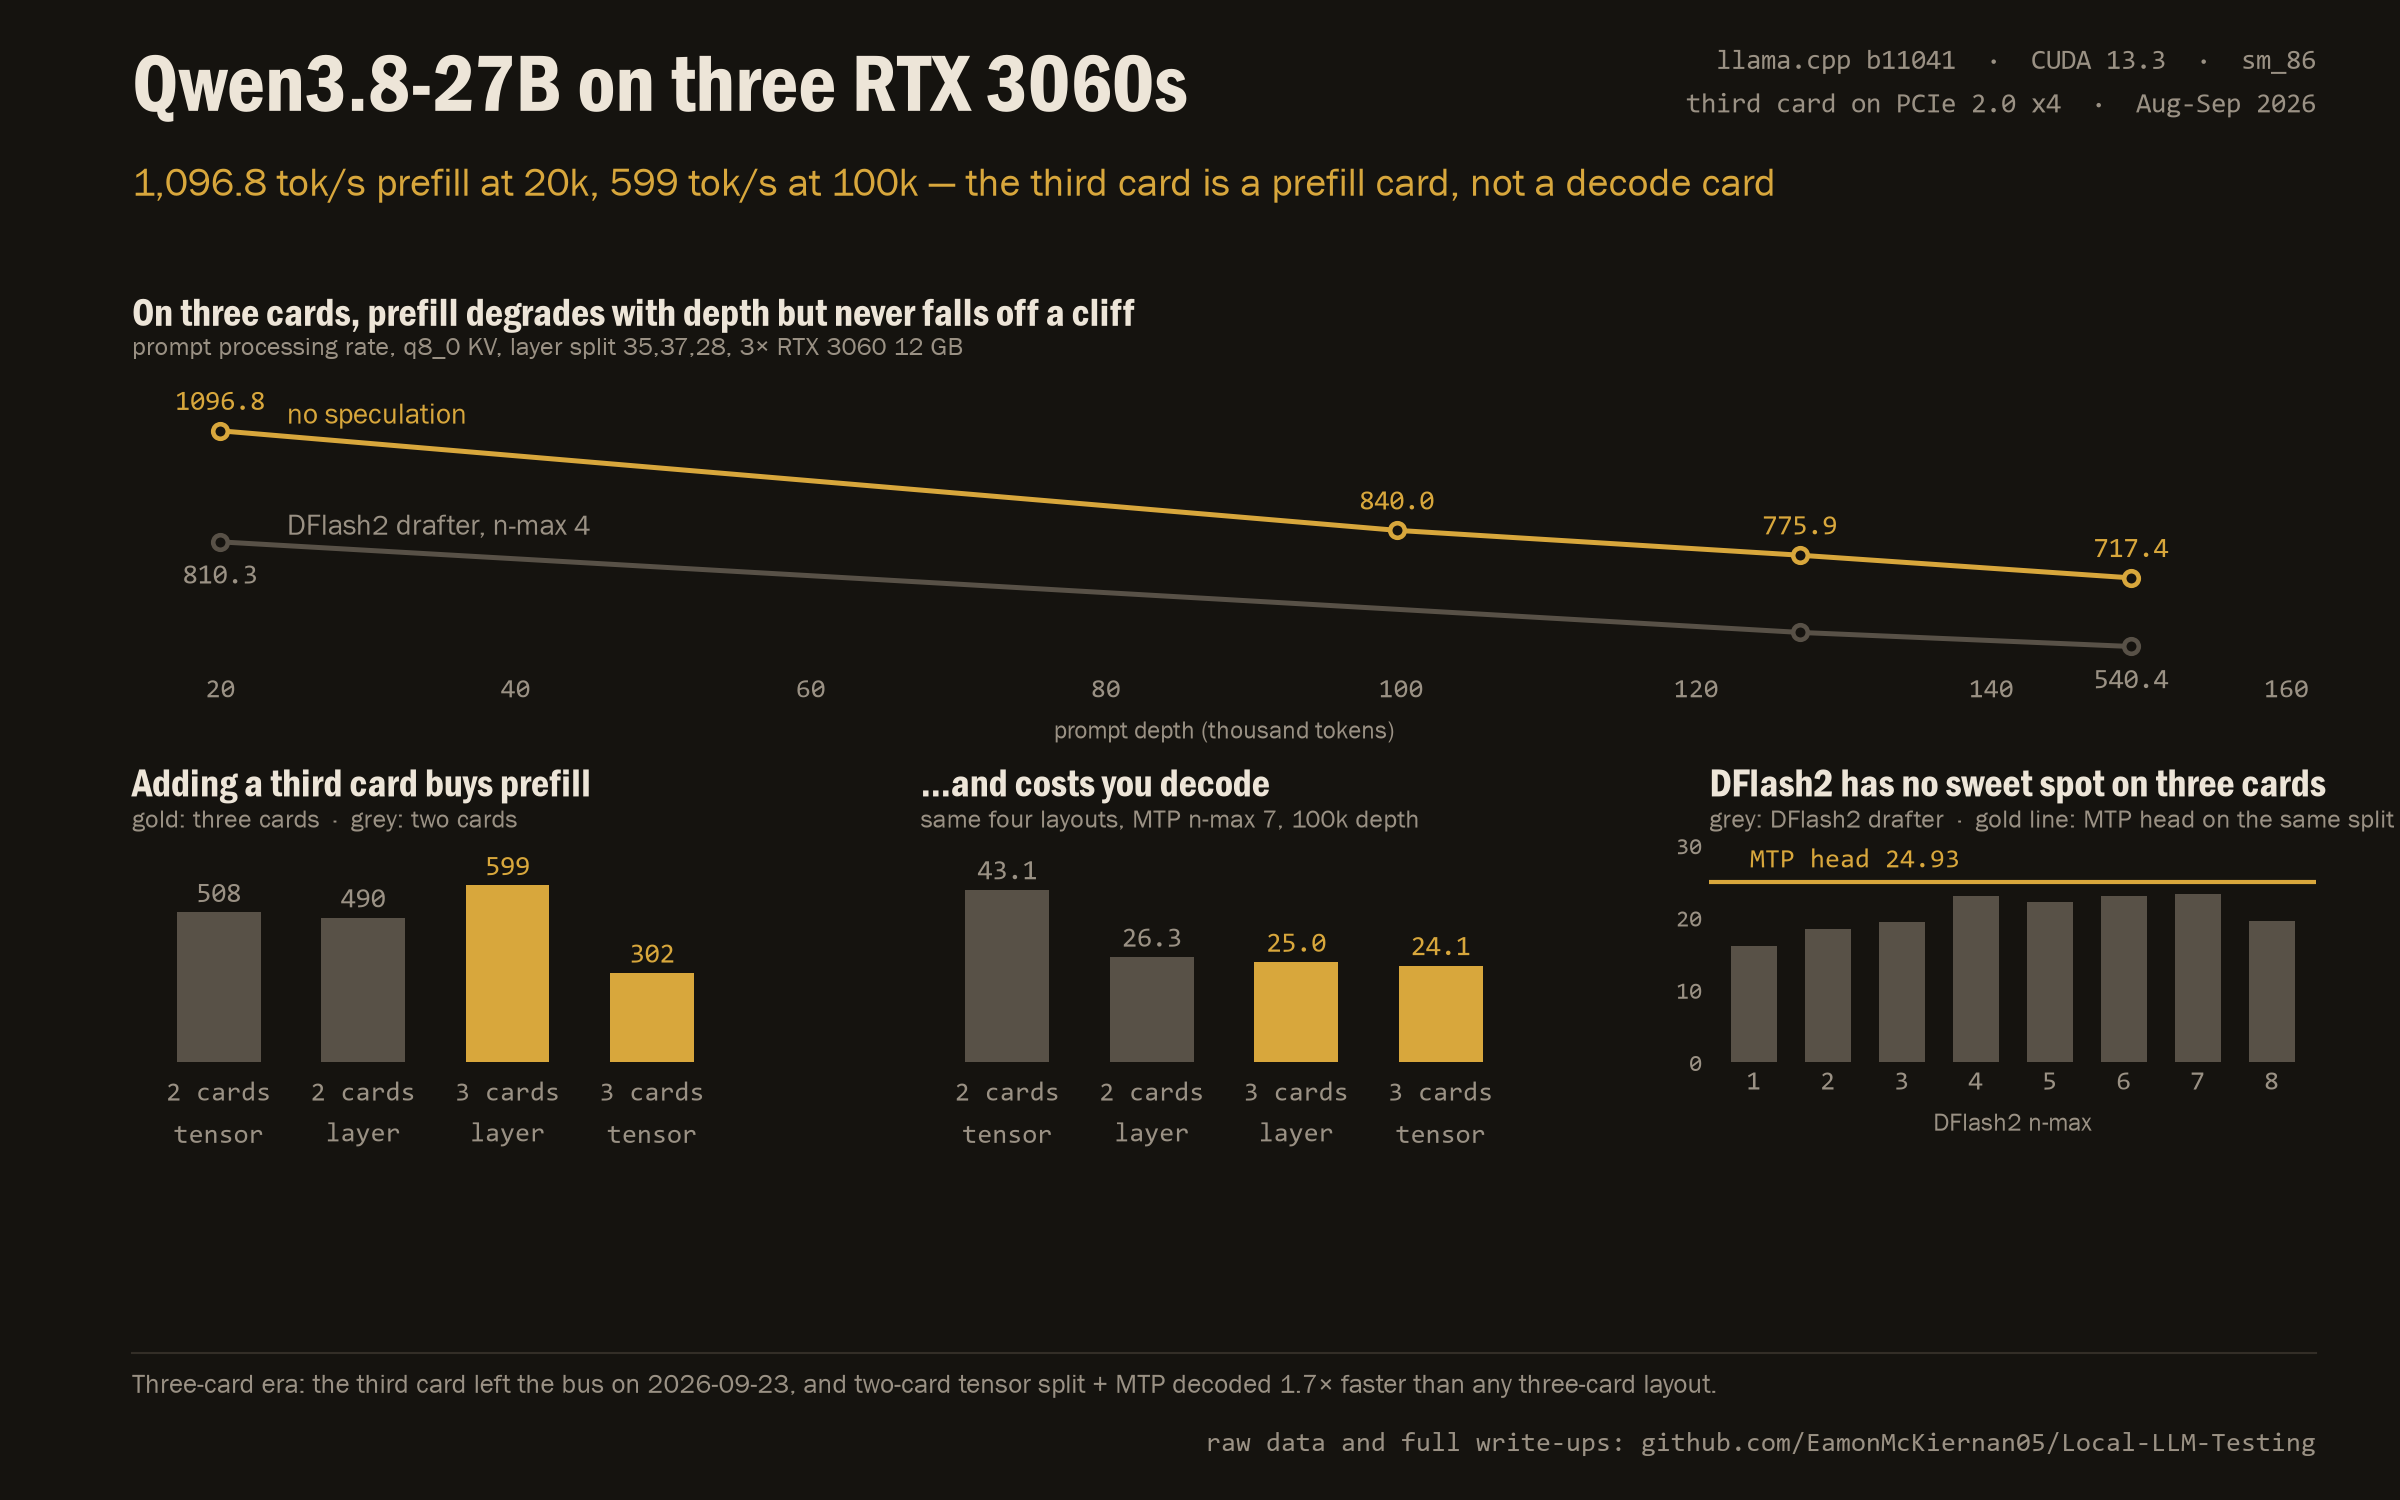
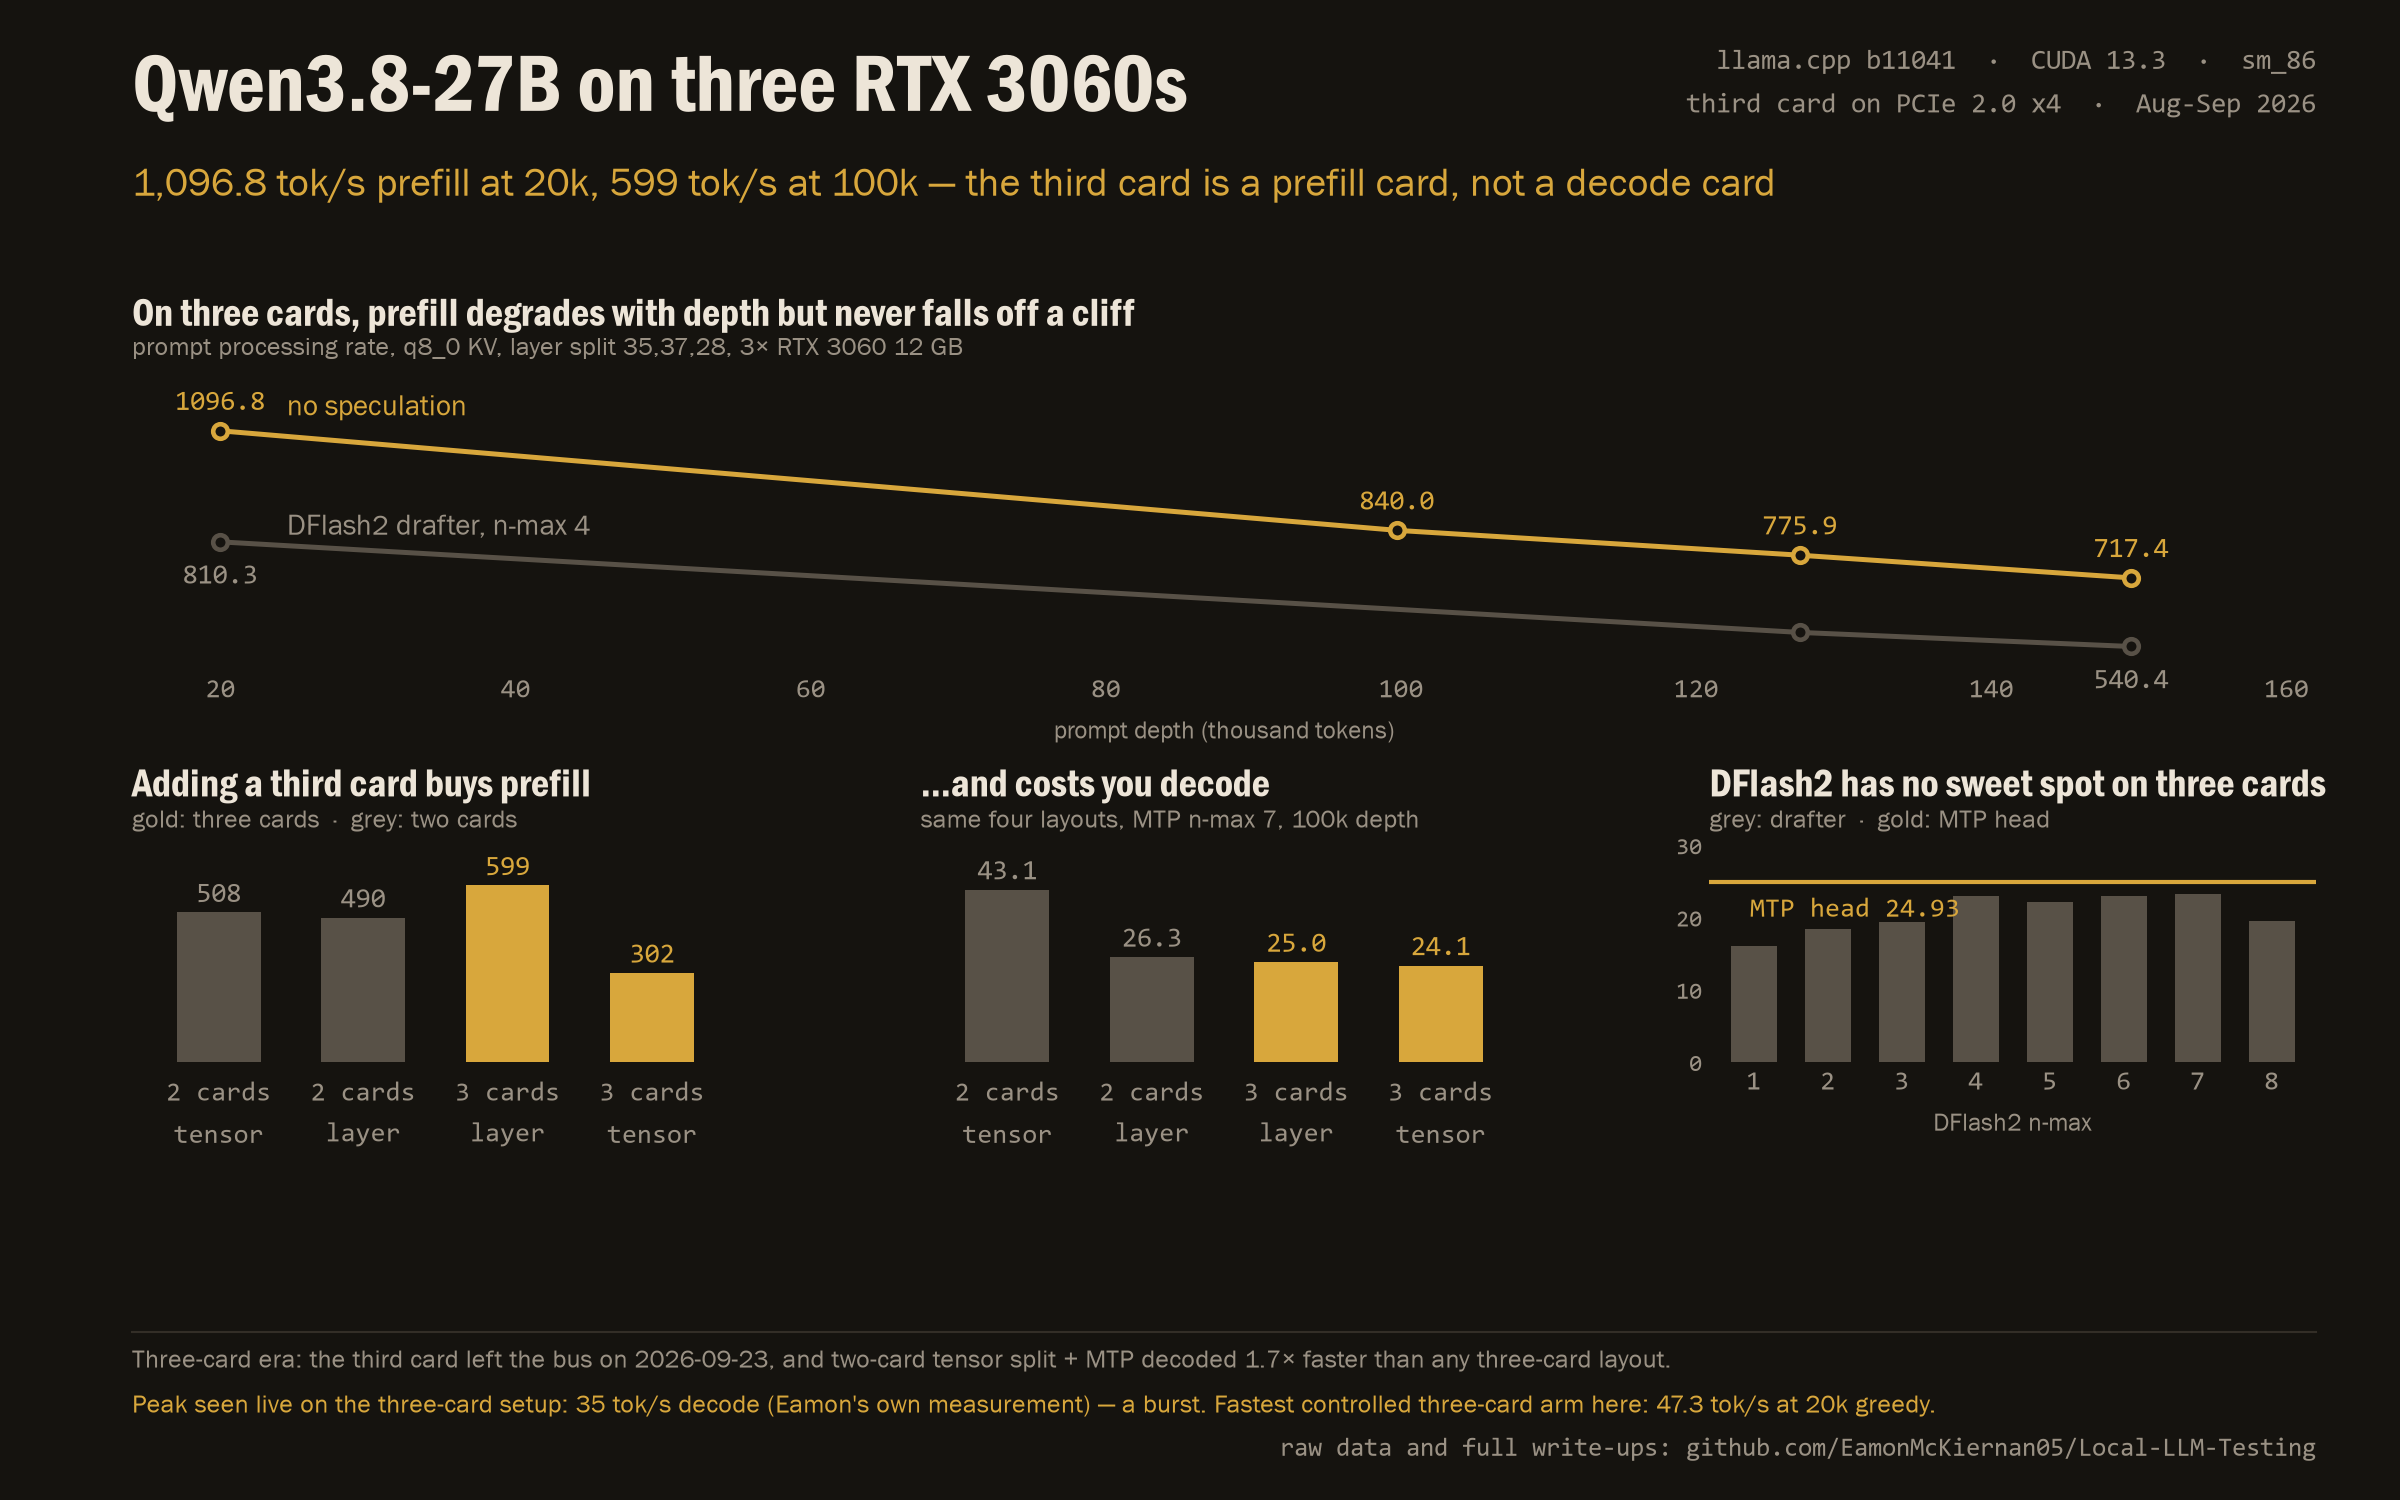
Record the live peak figures, with their source on every row
Adds data/csv/live-peak-observations.csv: 81 tok/s peak decode on the
two-card config (measured live by Eamon on a basic pong coding task),
35 tok/s on the three-card setup, and the 41.77 tok/s three-second
window captured from the production request against 27.73 sustained.

These are bursts, not rates, and they are labelled as such everywhere:
kept out of the sweep tables, called out in both chart footers, and
sourced per row (captured vs reported).

Changed region(s): [[0.0625, 0.8893, 0.9688, 0.9813], [0.7188, 0.5213, 1.0, 0.6133], [0.125, 0.2453, 0.1875, 0.3067]]

diff --git a/qwen3.8-27b-llama-cpp/scripts/make_chart_3card.py b/qwen3.8-27b-llama-cpp/scripts/make_chart_3card.py
@@ -126,7 +126,7 @@ for x, y in zip(none_x, none_y):
 for x, y in [(df_x[0], df_y[0]), (df_x[-1], df_y[-1])]:
     ax1.annotate(f"{y:.1f}", (x, y), xytext=(0, -20), textcoords="offset points",
                  ha="center", color=INK_DIM, fontsize=13.5, fontfamily=MONO)
-ax1.annotate("no speculation", xy=(24.5, 1096.8), xytext=(0, 7), textcoords="offset points",
+ax1.annotate("no speculation", xy=(24.5, 1096.8), xytext=(0, 11), textcoords="offset points",
              color=ACCENT, fontsize=14, fontfamily=SANS, ha="left", va="center")
 ax1.annotate("DFlash2 drafter, n-max 4", xy=(24.5, 810.3), xytext=(0, 7), textcoords="offset points",
              color=INK_DIM, fontsize=14, fontfamily=SANS, ha="left", va="center")
@@ -149,11 +149,11 @@ bars(ax3, gd, 56, fmt="{:.1f}")
 # ---------------------------------------- 4. DFlash2 on three cards --------
 ax4 = fig.add_subplot(gs[1, 2])
 dress(ax4, "DFlash2 has no sweet spot on three cards",
-      "grey: DFlash2 drafter  ·  gold line: MTP head on the same split")
+      "grey: drafter  ·  gold: MTP head")
 ax4.bar(df_nmax, df_gen, width=0.62, color=QUIET, zorder=3)
 ax4.axhline(mtp_ref, color=ACCENT, lw=2, zorder=4)
-ax4.annotate(f"MTP head {mtp_ref:.2f}", xy=(0.95, mtp_ref), xytext=(0, 7),
-             textcoords="offset points", ha="left", color=ACCENT,
+ax4.annotate(f"MTP head {mtp_ref:.2f}", xy=(0.95, mtp_ref), xytext=(0, -7),
+             textcoords="offset points", ha="left", va="top", color=ACCENT,
              fontsize=13, fontfamily=MONO)
 ax4.set_xticks(df_nmax)
 ax4.set_xticklabels([str(n) for n in df_nmax])
@@ -175,12 +175,15 @@ fig.text(0.965, 0.939, "third card on PCIe 2.0 x4  ·  Aug-Sep 2026", color=INK_
          fontsize=13.5, fontfamily=MONO, ha="right", va="top")
 
 # ------------------------------------------------------------------- footer --
-fig.add_artist(plt.Line2D([0.055, 0.965], [0.098, 0.098], color=RULE, lw=1))
-fig.text(0.055, 0.068, "Three-card era: the third card left the bus on 2026-09-23, "
-                       "and two-card tensor split + MTP decoded 1.7× faster than any three-card layout.",
-         color=INK_DIM, fontsize=13, fontfamily=SANS, va="bottom")
-fig.text(0.965, 0.028, "raw data and full write-ups: github.com/EamonMcKiernan05/Local-LLM-Testing",
-         color=INK_DIM, fontsize=13, fontfamily=MONO, ha="right", va="bottom")
+fig.add_artist(plt.Line2D([0.055, 0.965], [0.112, 0.112], color=RULE, lw=1))
+fig.text(0.055, 0.085, "Three-card era: the third card left the bus on 2026-09-23, and two-card tensor "
+                       "split + MTP decoded 1.7× faster than any three-card layout.",
+         color=INK_DIM, fontsize=12.5, fontfamily=SANS, va="bottom")
+fig.text(0.055, 0.055, "Peak seen live on the three-card setup: 35 tok/s decode (Eamon's own measurement) — a burst. "
+                       "Fastest controlled three-card arm here: 47.3 tok/s at 20k greedy.",
+         color=ACCENT, fontsize=12.5, fontfamily=SANS, va="bottom")
+fig.text(0.965, 0.025, "raw data and full write-ups: github.com/EamonMcKiernan05/Local-LLM-Testing",
+         color=INK_DIM, fontsize=12.5, fontfamily=MONO, ha="right", va="bottom")
 
 fig.savefig(OUT, facecolor=BG)
 print("wrote", OUT)

diff --git a/qwen3.8-27b-llama-cpp/scripts/make_chart.py b/qwen3.8-27b-llama-cpp/scripts/make_chart.py
@@ -180,12 +180,15 @@ fig.text(0.965, 0.939, "Q4_K_XL and IQ3_S quants  ·  Aug-Sep 2026", color=INK_D
          fontsize=13.5, fontfamily=MONO, ha="right", va="top")
 
 # ------------------------------------------------------------------- footer --
-fig.add_artist(plt.Line2D([0.055, 0.965], [0.098, 0.098], color=RULE, lw=1))
-fig.text(0.055, 0.068, "Every figure came off a real run on this one box: Xeon E5-2680 v4, "
+fig.add_artist(plt.Line2D([0.055, 0.965], [0.112, 0.112], color=RULE, lw=1))
+fig.text(0.055, 0.085, "Every figure came off a real run on this one box: Xeon E5-2680 v4, "
                        "31 GB RAM, 2× RTX 3060 12 GB, no NVLink.",
-         color=INK_DIM, fontsize=13, fontfamily=SANS, va="bottom")
-fig.text(0.965, 0.028, "raw data and full write-ups: github.com/EamonMcKiernan05/Local-LLM-Testing",
-         color=INK_DIM, fontsize=13, fontfamily=MONO, ha="right", va="bottom")
+         color=INK_DIM, fontsize=12.5, fontfamily=SANS, va="bottom")
+fig.text(0.055, 0.055, "Peak seen live on this configuration: 81 tok/s decode on a basic pong coding task at shallow context "
+                       "(Eamon's own measurement) — a burst, not a steady-state rate.",
+         color=ACCENT, fontsize=12.5, fontfamily=SANS, va="bottom")
+fig.text(0.965, 0.025, "raw data and full write-ups: github.com/EamonMcKiernan05/Local-LLM-Testing",
+         color=INK_DIM, fontsize=12.5, fontfamily=MONO, ha="right", va="bottom")
 
 fig.savefig(OUT, facecolor=BG)
 print("wrote", OUT)

diff --git a/qwen3.8-27b-llama-cpp/README.md b/qwen3.8-27b-llama-cpp/README.md
@@ -90,6 +90,20 @@ Two traps worth knowing before you copy any of it:
 1. **Do not pass a single sampler flag unless you pass them all.** llama.cpp reads unset sampler parameters from the GGUF's own metadata. This model's metadata says `top_k 20`, `min_p` off. Passing `--top-k 40` thinking you are restating the default costs 35% of generation speed.
 2. **`-ub 256` is the prefill sweet spot at every `-b`.** `-ub 128` costs about 4%; `-ub 512` and above cost 1.5-3% and add VRAM, and at 160k context `-ub 2048` kills the server during a long prompt.
 
+## Peaks observed live (not harness runs)
+
+Three figures in this project's history are **not** sweep measurements and are kept out of every table above. They are recorded in `data/csv/live-peak-observations.csv` with their source on each row.
+
+| date | config | workload | figure |
+|---|---|---|---|
+| 2026-09-23 | two cards, tensor split, MTP `n-max 7` | basic pong coding task, shallow context | **81 tok/s peak decode** — Eamon's own live measurement |
+| 2026-09-23 | same config | the production request below | **41.77 tok/s** in llama-server's 3-second window, against 27.73-27.80 sustained |
+| 2026-09-24 | three cards, layer split | not recorded | **35 tok/s peak decode** — reported by Eamon |
+
+Read them as bursts, not rates. The distinction matters: llama-server reports both a cumulative `tg` and a `tg_3s` three-second window, and the short window spikes well above the real rate — the second row is proof, at 1.5x its own sustained figure. The controlled two-card arms top out at 44.33 tok/s (20k depth, ungated `n-max 2`) and 43.10 (100k depth, `n-max 7`); a shallow-context coding task has far less KV cache to re-read per step, so a peak above those numbers is mechanically expected, not surprising.
+
+**Rule for using them:** quote a live peak only with its context and only as a peak. Never put one in the same column as a fixed-prompt harness run.
+
 ## What we still cannot answer
 
 Stated honestly, because someone will ask:

diff --git a/qwen3.8-27b-llama-cpp/PROVENANCE.md b/qwen3.8-27b-llama-cpp/PROVENANCE.md
@@ -43,6 +43,7 @@ Collected 2026-09-24. The rule for this repo is simple: **a number appears here 
 | `live-traffic-draft-acceptance-aug14-15.csv` | 28 | per-request journal lines from real fleet traffic |
 | `live-service-2026-09-23-prefill-progress.csv` | 10 | the production cold prefill, sample by sample |
 | `live-service-2026-09-23-decode-series.csv` | 21 | the production decode rate, sample by sample |
+| `live-peak-observations.csv` | 3 | live peak/burst figures, each row carrying its own source: two measured by Eamon live on the box, one captured from llama-server's 3-second window |
 | `buun-fork-sweep-tok_s.csv` etc. | 25 / 6 / 3 / 4 | the fork: main sweep, harness comparison, long context, drafter quants |
 
 ### Counting the runs
@@ -52,6 +53,15 @@ Collected 2026-09-24. The rule for this repo is simple: **a number appears here 
 ### The one derived column
 
 `ms/step` in the DFlash2 bake-off tables is computed: `gen_ms / (gen_tokens / mean_len)`. It is the only figure anywhere in this repo that is not read straight off a run. Its formula is stated in the tables' source report.
+
+### User-reported figures are labelled as such
+
+`live-peak-observations.csv` mixes two kinds of evidence and says which is which in its `source` column:
+
+- **captured** — a `tg_3s` line from the llama-server journal, timestamped and quoted.
+- **reported** — a figure Eamon measured himself on the box, with no harness, no fixed prompt and no recorded window. Two rows are in this category (81 tok/s on two cards, 35 tok/s on three cards). They are in the repo because they happened and he wants them recorded, and they are labelled because a burst on a loose task is not comparable with a fixed-prompt sweep arm.
+
+No reported figure is used in any chart panel, any table in `experiments/`, or any headline. Where a chart mentions one it says so in the footer.
 
 ### Counter sources
 

diff --git a/README.md b/README.md
@@ -50,6 +50,7 @@ Three-card story — the third card buys prefill and costs decode:
 | Best prefill, three cards | **599 tok/s** (layer split) |
 | Drafter verdict | The built-in MTP head beats every DFlash2 configuration at every temperature tested |
 | Runs recorded | 284 — 277 measured, 7 died at load |
+| Peak seen live, two cards | **81 tok/s** decode on a short coding task (shallow context) — a burst, not a sweep figure |
 | Best three-card decode, 100k | 24.96 tok/s — and 2-card tensor split did 43.06 on the same depth |
 
 **What the sweeps cost people time not to re-learn:**
@@ -62,5 +63,7 @@ Three-card story — the third card buys prefill and costs decode:
 - `-ub 256` is the prefill sweet spot at every `-b`.
 
 **What's in the folder:** seven experiment write-ups in the order they were run, plus a separate pass over the `buun-llama-cpp` fork; every table as a CSV; the raw per-arm JSONL records we still hold; the harnesses and drivers; and the chart above with the script that draws it.
+
+**Live peaks vs measured rates:** the 81 tok/s above is a burst Eamon measured himself on a loose task, not a harness run — llama-server's own 3-second window sits 1.5x above its sustained rate on a deep request. Both are recorded with their source in `qwen3.8-27b-llama-cpp/data/csv/live-peak-observations.csv` and are never mixed into the sweep tables.
 
 **Honest limits:** the raw per-arm files for two of the experiments (the 107-run DFlash2 bake-off and the 70-arm two-card sweep) stayed on the box and could not be copied — those tables are transcribed from the reports written from them on the day. Full detail in [`PROVENANCE.md`](qwen3.8-27b-llama-cpp/PROVENANCE.md).
